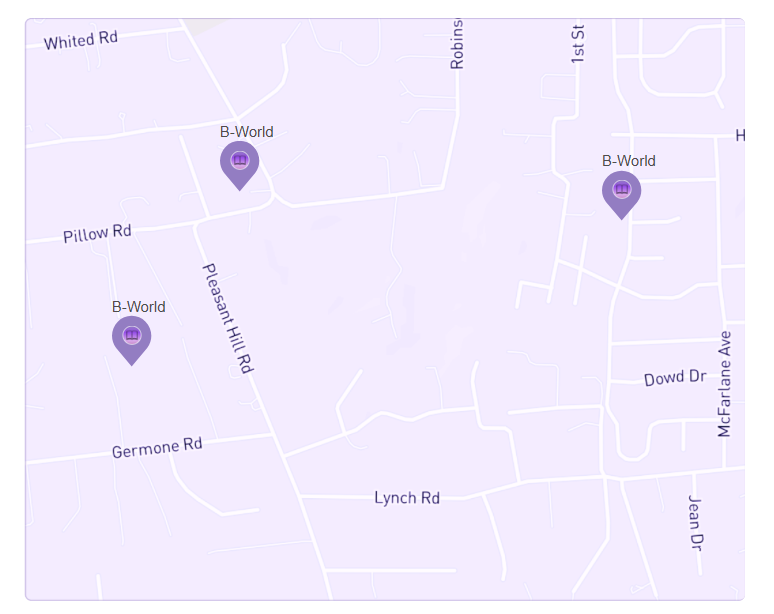
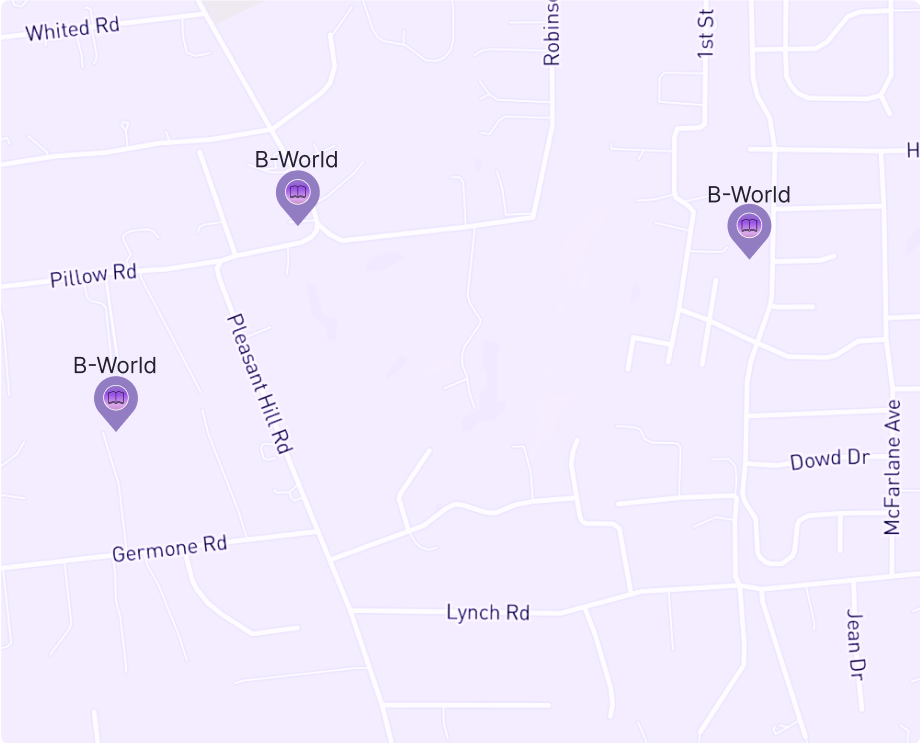
fix: fix newsletter section

diff --git a/css/section/newsletter-section.css b/css/section/newsletter-section.css
@@ -1,11 +1,18 @@
 .newsletter__wrapper {
   display: flex;
-  align-items: center;
   justify-content: space-between;
-  gap: 80px;
+  gap: 61px;
+}
+
+.newsletter__form {
+  flex: 1;
+  margin-top: 30px;
 }
 
 .newsletter__content {
+  flex-direction: column;
+  height: 178px;
+  justify-content: space-between;
   flex: 1;
 }
 
@@ -14,17 +21,13 @@
 }
 
 .newsletter__desc {
-  margin-bottom: 50px;
-}
-
-.newsletter__form {
-  display: flex;
-  flex-direction: column;
-  gap: 28px;
+  width: 555px;
+  margin-bottom: 59px;
 }
 
 .newsletter__btn {
-  margin-top: 30px;
+  margin-top: 16px;
+  width: 100%
 }
 
 .newsletter__map {

diff --git a/pages/index.html b/pages/index.html
@@ -692,18 +692,18 @@
 
       <section id="newsletter" class="layout-section container">
         <div class="newsletter__wrapper">
-          <div class="newsletter__content">
-            <h2 class="text--lg newsletter__title">Did you know us?</h2>
+          <div class="newsletter__form">
+            <div class="newsletter__content">
+              <h2 class="text--lg newsletter__title">Did you know us?</h2>
 
-            <p class="body--text newsletter__desc">
-              We are about books and our purpose is to show you the book who can
-              change your life or distract you from the real world in a better
-              one. BWorld works with the most popular publishs just for your
-              delight. If you are about books, you must to subscribe to our
-              newsletter.
-            </p>
+              <p class="body--text newsletter__desc">
+                We are about books and our purpose is to show you the book who
+                can change your life or distract you from the real world in a
+                better one. BWorld works with the most popular publishs just for
+                your delight. <br />
+                If you are about books, you must to subscribe to our newsletter.
+              </p>
 
-            <form class="newsletter__form">
               <input
                 type="text"
                 placeholder="Your name"
@@ -717,9 +717,8 @@
               <button class="btn btn--primary newsletter__btn">
                 Subscribe
               </button>
-            </form>
+            </div>
           </div>
-
           <div class="map newsletter__map">
             <img
               src="../assets/images/map.png"

diff --git a/css/components/input.css b/css/components/input.css
@@ -1,11 +1,3 @@
-.input {
-  width: 100%;
-  padding: 12px 16px;
-  border: 1px solid var(--bg-color);
-  border-radius: 6px;
-  outline: none;
-}
-
 .search__input {
   flex: 1;
   width: 131px;
@@ -20,12 +12,11 @@
 }
 
 .newsletter__input {
+  width: 555px;
   opacity: 0.4;
-  border: none;
   border-bottom: 1px solid var(--primary-color);
-  padding: 12px 0;
-  outline: none;
-  background: transparent;
+  margin-bottom: 32px;
+  padding: 7px 0;
 }
 
 .newsletter__input::placeholder {

diff --git a/css/components/map.css b/css/components/map.css
@@ -1,18 +1,11 @@
 .map {
-  width: 577px;
-  height: 467px;
+  width: 576px;
   position: relative;
-  border-radius: 5.1px;
+  border-radius: 5px;
   overflow: hidden;
 }
 
 .map__image {
   width: 100%;
   display: block;
-}
-
-.map__label {
-  font-size: var(--fs-badge);
-  font-weight: var(--fw-regular);
-  white-space: nowrap;
 }